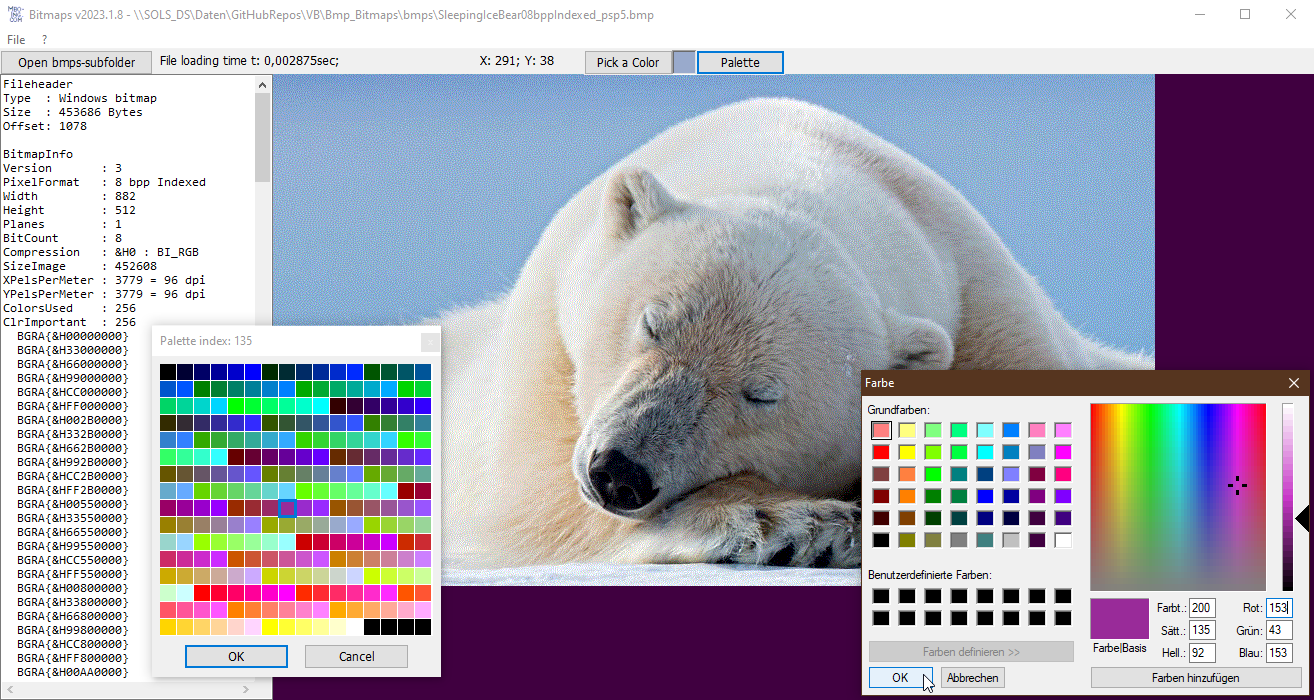
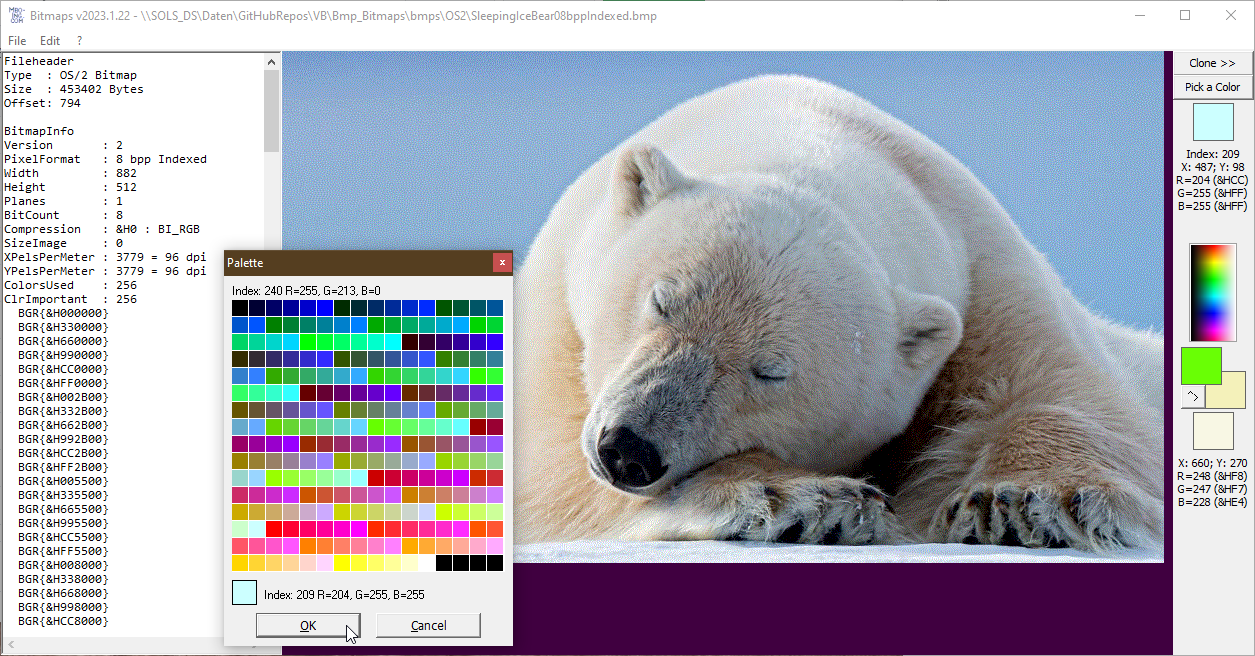
Update png, added crlf after index

diff --git a/README.md b/README.md
@@ -7,6 +7,8 @@
 ![GitHub followers](https://img.shields.io/github/followers/OlimilO1402?style=social)
 
 Project started in jan.2021.  
-Reading pictures in the .bmp-Bitmap fileformat Windows or OS/2, RGB (or RLE) encoded
+Binary reading pictures in the bmp-fileformat aka bitmaps, windows-bmp or os/2-bmp, in uncompressed rgb or rle-compressed,
+pixelformats: 1bpp 2 colors, 4bpp 16 colors, 8bpp 256 colors, 15bpp 32768 colors (555), 16bpp 65536 colors (565 / 1555), 24 bpp 16,7mio colors, 32bpp 16.7mio+255 steps of transparency. Works in VBC and in VBA7 x86 & Win64.
+View all bitmap-header-data and bitmap-infos in human readable format in a textbox.
 
 ![Bitmaps Image](Resources/Bitmaps.png "Bitmaps Image")
